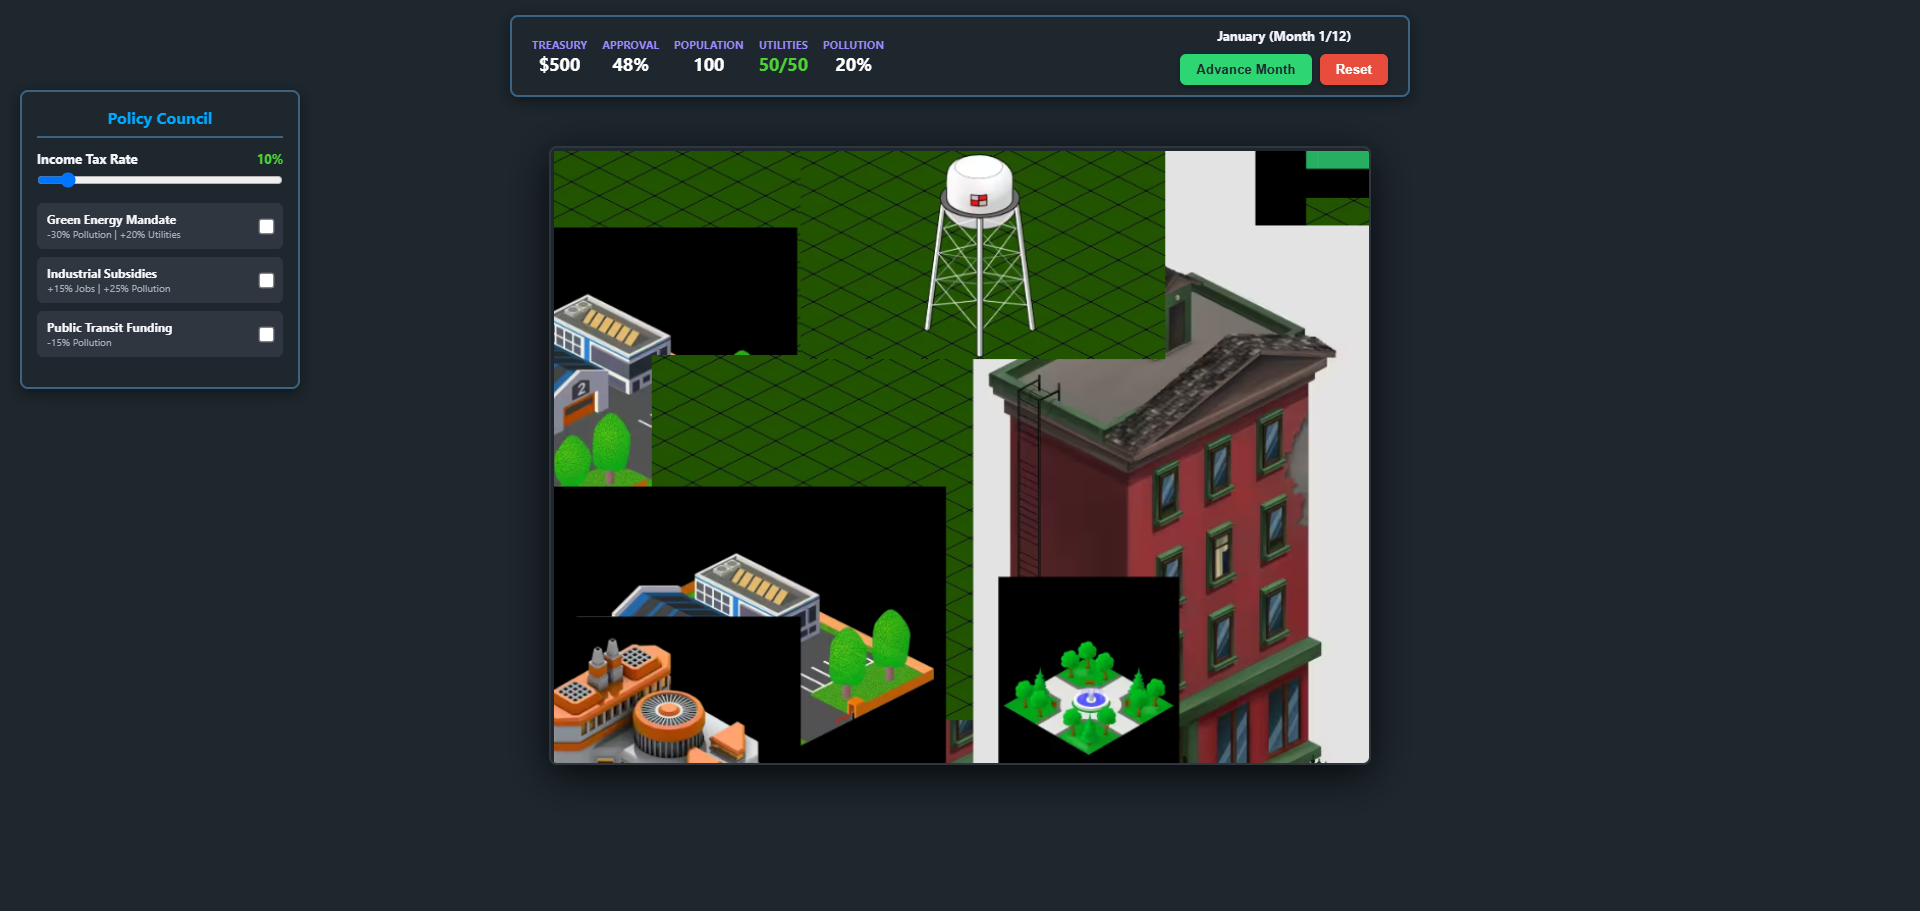
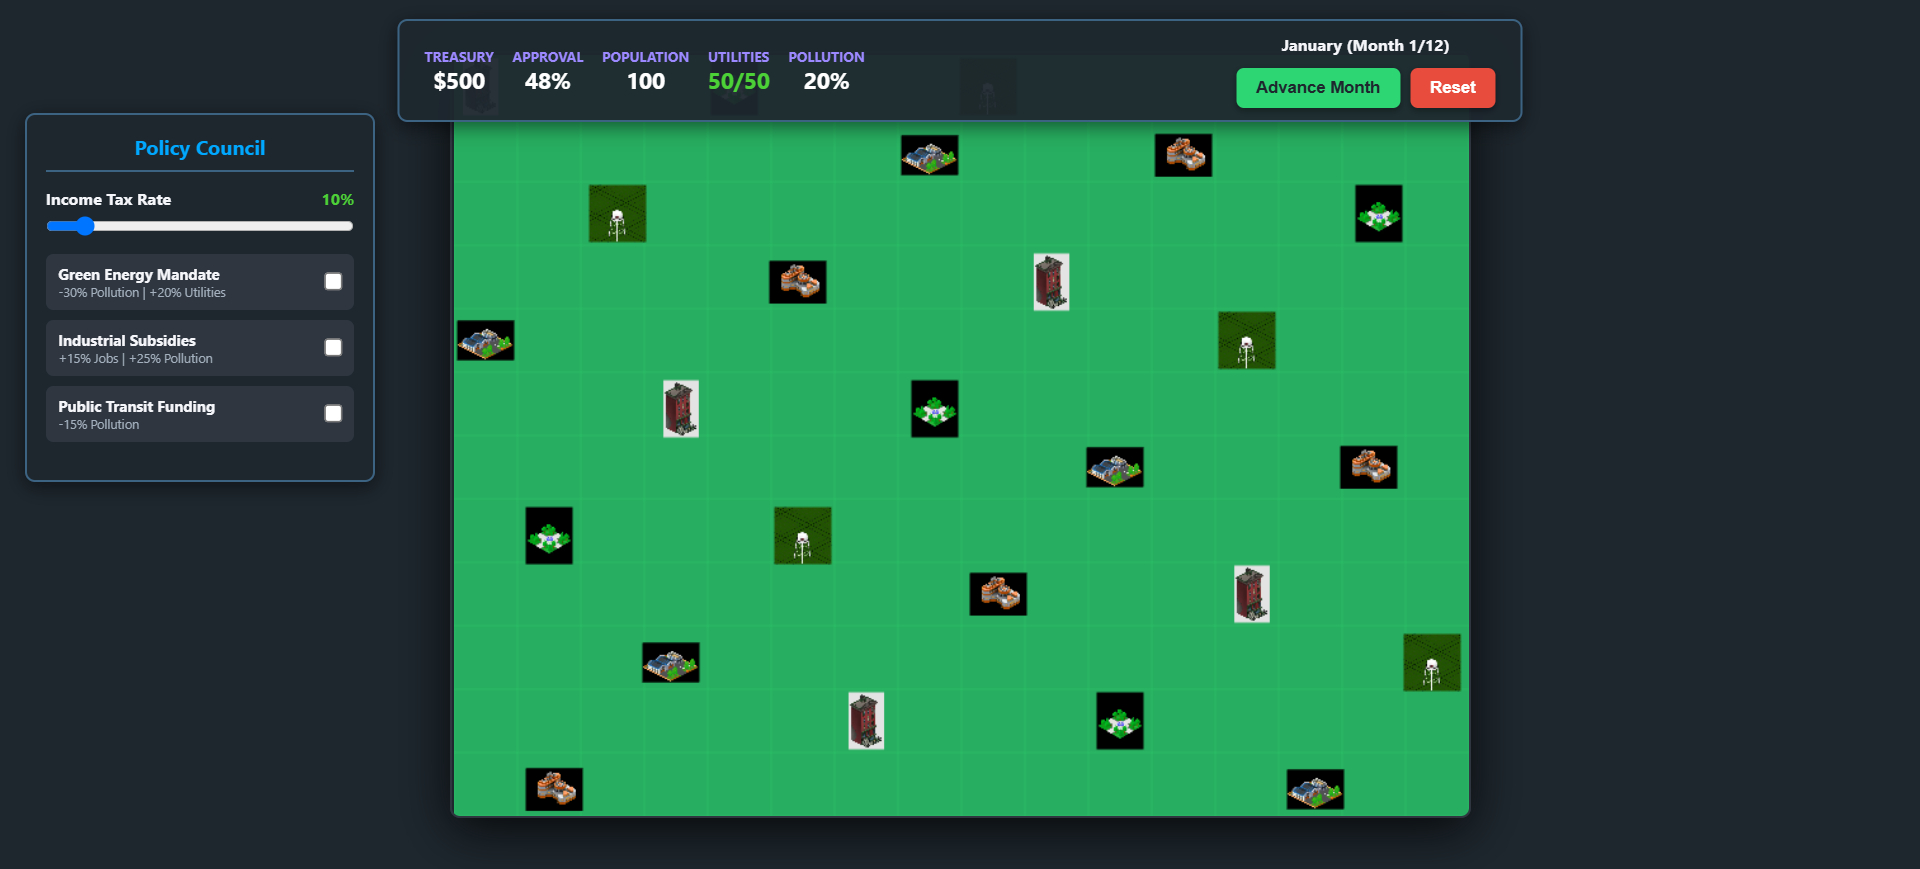
documentation

diff --git a/docs/plan.md b/docs/plan.md
@@ -3,16 +3,6 @@
 Pivot from grid-placement city builder to Democracy-style policy management.
 City map becomes a passive visual layer, not an interaction surface.
 
-## Why the pivot
-
-Tracking per-building stats/levels via manual grid placement turned out to
-not be the fun part. The Democracy-style feedback loop (policy → stats →
-consequence) is. Cutting manual placement removes the most expensive
-subsystem (`GridManager`, placement UI, per-cell save/render data) rather
-than adding one — and most of the Democracy-style engine already exists.
-
----
-
 ## Core Loop
 
 - **Turn-based**, not real-time. 1 turn = 1 month. Player advances manually
@@ -32,66 +22,7 @@ than adding one — and most of the Democracy-style engine already exists.
 - **Fail state**: population reaches 0 triggers game over. Sandbox/score-only otherwise.
 
 ---
-
-## What already fits, keep as-is
-
-- `PolicyManager.ts` — `setTaxRate`, `togglePolicy`,
-  `applyMonthlyPolicyEffects`, `recalculateFactionImpact`. This *is* the
-  Democracy engine. No rewrite needed structurally, but faction math
-  simplifies — see "Factions" below.
-- `GameState.ts` — `overallApproval` getter, `PolicySettings` — right
-  shape for this direction. `FactionApproval` interface shrinks to a
-  single `residents` field (see below).
-- `EventManager.ts` — `advanceMonth`, `selectMonthlyEvent`,
-  `resolveEventChoice` — EU4-style event cards, keep whole.
-- `EconomyManager.ts` — keep the file and its role (monthly financial
-  resolution), but its internals need to change (see below).
-- `SaveManager.ts` — keep, but drop `gridData` from `SavePayload`.
-- `HtmlUI.ts` — keep HUD, policy modal, event modal, game-over modal. Drop
-  the building-placement toolbar.
-- `Constants.ts` — keep `PolicySettings`, `ChoiceOption`, `CityEvent`.
-  `BuildingTypeConfig` shrinks (see below).
-
----
-
-## What gets deleted
-
-Grid/placement layer — the part being cut:
-
-- [x] `src/systems/GridManager.ts` — placement/demolition logic, entire file
-- [x] `src/objects/Building.ts` — per-tile sprite with status badges, entire file
-- [x] `src/objects/Citizen.ts` — commuter sprites, entire file
-- [x] In `GameScene.ts`: `handlePointerMove`, `handlePointerDown`,
-  `reconstructCityFromState`, `spawnAmbientCommuter`,
-  `updateBuildingStatuses`
-- In `HtmlUI.ts`: building-select toolbar wiring inside `createToolbar`
-- **Building buttons + Demolish button** (Residential House, Industrial
-  Factory, Coal Power Plant, Green Energy Station, Public Park, Demolish)
-  — buildings now spawn/despawn automatically based on city state, no
-  manual placement or removal at all
-- `gridData` field from `SaveManager`'s `SavePayload`
-
-### Development threshold (new concept, needs defining)
-
-Buildings appearing/disappearing automatically means each building type
-needs a **threshold** — a population/pollution/approval condition that
-decides when it spawns or despawns on the visual grid. E.g. (illustrative,
-not final numbers):
-
-- Residential House: appears once population crosses N per house-slot
-- Industrial Factory: appears once `industrialSubsidies` has been on for
-  some turns, or population supports it
-- Coal Power Plant / Green Energy Station: appears based on which
-  utility policy is active
-- Public Park: appears once approval/happiness crosses a threshold
-
-This threshold table lives alongside the visual-render step (see
-"What gets rewritten" below) — it decides *what shows up*, separate from
-`policy.ts` which decides *what the underlying stats are*.
-
----
-
-## Factions — start with Residents only
+## Factions — Residents only
 
 Cut the 4-faction split (Environmentalists / Tycoons / Labor / Residents)
 down to **one faction: Residents.** `overallApproval` becomes just
@@ -111,48 +42,8 @@ residents' approval directly — no averaging across factions needed.
 - `policy.ts` / `policy.md`: every policy's `approval` effect becomes a
   single number (residents only), not a per-faction object. See updated
   shape below.
-- **Env / Tycoon / Labor are deferred, not deleted from the plan** —
-  same call as the original single-approval-number decision: add them
-  back once Residents-only feedback loop feels good and more policies
-  exist that would actually pull those groups in different directions.
-  Right now with 4 policies and 1 faction there's nothing for extra
-  factions to disagree about yet.
 
 ---
-
-## What gets rewritten
-
-**`GameScene.ts`** becomes thin: no pointer input, no per-tile
-reconstruction. Just calls a new visual-render step each turn.
-
-**New: city visual layer** (either a small `CityVisualManager.ts` in
-`src/systems/`, or a method folded into `GameScene`) — takes
-`population`, `pollution`, `approval` from `GameState` and scatters
-house/factory/park sprites procedurally. No `GridManager` dependency, no
-click-to-place, no per-cell state.
-
-**`EconomyManager.ts` — the core data-model shift.** Right now population/
-jobs/pollution are *derived from placed buildings* (`BuildingTypeConfig`
-fields summed over the grid). In the Democracy direction they need to be
-*derived from policy state directly*:
-
-```ts
-// EconomyManager, new shape (illustrative)
-population += growthRate(approval, budget);           // per turn
-pollution = basePollution
-  + (industrialSubsidies ? INDUSTRIAL_POLLUTION : 0)
-  - (greenEnergyMandate ? GREEN_ENERGY_REDUCTION : 0);
-jobs = population * employmentRate(policySettings);
-```
-
-`BuildingTypeConfig` (in `Constants.ts`) loses `cost` / `population` /
-`jobs` / `utilitySupply` / `utilityDemand` — those effects move onto
-policy definitions instead. What's left of `BuildingTypeConfig` is purely
-visual: `textureKey` and a population/pollution threshold that decides
-when that building type starts appearing on the map.
-
----
-
 ## Starting values & core formulas
 
 City starts at:
@@ -162,8 +53,8 @@ City starts at:
 | Treasury | $500 |
 | Population | 100 |
 | Mayor Approval | 50% |
-| Pollution | 0% (range 0–100%) |
-| Utilities Balance | 50% (range 0–100%+) |
+| Pollution | 20% (range 0–100%) |
+| Utilities Balance | 50% (range 0–100%) |
 
 **Happiness is removed** — redundant with Approval, same underlying
 signal under two names.
@@ -218,9 +109,6 @@ everything else stays sandbox/score-only per the original decision.
 - **Side panel** (new, persistent — not a modal): houses the 4 policy
   controls (tax rate slider + 3 toggles). Always visible, no open/close
   state to manage — simpler than the existing `createPolicyModal`.
-- **Bottom toolbar**: building buttons and Demolish button removed
-  entirely (see below). `Policies` button removed since the panel is now
-  always on screen. `Save` / `Reset` remain.
 - **Top HUD**: Treasury, Mayor Approval, Utilities Balance, Pollution,
   month/pause/speed stay. Happiness is removed (see Starting Values
   section) — drop it from the HUD display too.
@@ -295,29 +183,3 @@ balancing by hand before touching code, and a running doc as more
 policies get added later. Update both files together when a policy
 changes — `policy.md` is documentation, `policy.ts` is the source of
 truth the game actually reads.
-
----
-
-## Order of work
-
-1. Write `policy.md` first — sketch the 4 policies' effects in plain
-   language/tables before touching any code. Cheap to change on paper.
-2. Translate `policy.md` into `src/core/policy.ts`.
-3. Strip `GameScene.ts` input handlers + grid reconstruction — confirm the
-   game still boots with a static/empty map and existing HUD.
-4. Rewrite `EconomyManager`'s growth formula to be policy-driven, reading
-   from `policy.ts`, using the starting values and formulas above
-   (population growth tied to approval distance from 50, asymmetric
-   utilities effect, pollution-driven approval). This is the core "does
-   it feel like Democracy" piece — do it first, iterate on numbers before
-   anything else.
-5. Add the population-0 game-over check.
-6. Define the development-threshold table (what makes each building type
-   spawn/despawn) and add the visual-render step. Cosmetic, done after
-   the sim math feels right.
-7. Delete `GridManager.ts`, `Building.ts`, `Citizen.ts`, building/Demolish
-   buttons. Trim `SavePayload` and `HtmlUI` toolbar. Remove Happiness
-   from state and HUD. Add the persistent policy side panel, apply the
-   grid layout/tilt.
-8. Re-run `npx tsc --noEmit` after each step to keep types consistent
-   through the deletions.

diff --git a/docs/tasks.md b/docs/tasks.md
@@ -1,7 +1,2 @@
 # Tasks: Grid-Builder → Policy Sim Pivot
 
-## Not in this pass (explicitly deferred, see `plan-v2.md`)
-
-- Environmentalist / Tycoon / Labor factions
-- Fail states beyond population reaching 0
-- New policies beyond the existing 4
